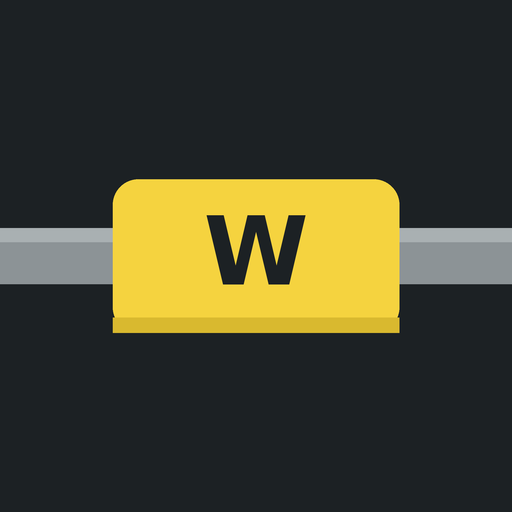
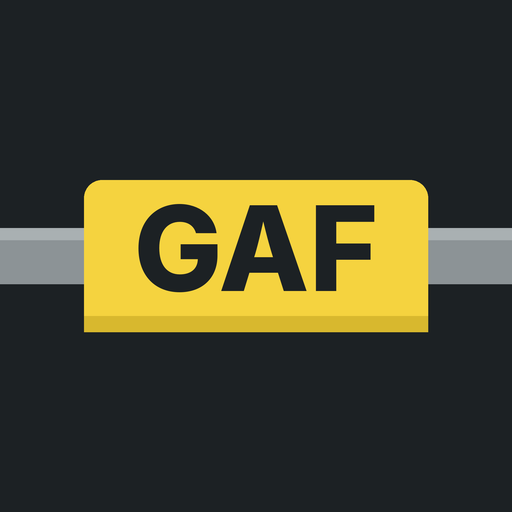
Add files via upload

Changed region(s): [[0.25, 0.375, 0.75, 0.5938], [0.75, 0.3438, 0.8438, 0.6562], [0.1562, 0.3438, 0.25, 0.6562]]

diff --git a/index.html b/index.html
@@ -7,8 +7,8 @@
 <meta name="apple-mobile-web-app-capable" content="yes">
 <meta name="mobile-web-app-capable" content="yes">
 <meta name="apple-mobile-web-app-status-bar-style" content="black-translucent">
-<meta name="apple-mobile-web-app-title" content="Wiring">
-<title>Wiring Library</title>
+<meta name="apple-mobile-web-app-title" content="GAFwire">
+<title>GAFwire</title>
 <link rel="manifest" href="manifest.json">
 <link rel="apple-touch-icon" href="apple-touch-icon.png">
 <link rel="icon" href="icon-192.png">
@@ -290,7 +290,7 @@ function render() {
   if (route().view === 'qr') return renderQr(route().args);   // sticker page needs no library data
   if (needPin) return renderPin();
   if (!catalog) {
-    app.innerHTML = bar(CFG.APP_NAME || 'Wiring Library') + `<main>${loadError
+    app.innerHTML = bar(CFG.APP_NAME || 'GAFwire') + `<main>${loadError
       ? `<div class="empty"><b>Library not loaded</b>${esc(loadError)}<div class="actions"><button class="btn primary" data-act="retry">Retry</button></div></div>`
       : '<p class="foot">Loading the library…</p>'}</main>`;
     return;
@@ -307,7 +307,7 @@ const banner = () => offline ? `<div class="notice">No connection. Showing the s
 function renderHome(resultsOnly) {
   const out = document.getElementById('results');
   if (resultsOnly && out) { out.innerHTML = homeBody(); return; }
-  app.innerHTML = bar(CFG.APP_NAME || 'Wiring Library', false, true) + `<main>${banner()}<div id="results">${homeBody()}</div>
+  app.innerHTML = bar(CFG.APP_NAME || 'GAFwire', false, true) + `<main>${banner()}<div id="results">${homeBody()}</div>
     <div class="help"><button data-act="missing">Can't find your device?</button></div></main>`;
 }
 
@@ -457,7 +457,7 @@ async function renderQr(args) {
 }
 
 function renderPin() {
-  app.innerHTML = bar(CFG.APP_NAME || 'Wiring Library') + `<main><form class="pin" id="pinform"><h2>Enter the shop PIN</h2>
+  app.innerHTML = bar(CFG.APP_NAME || 'GAFwire') + `<main><form class="pin" id="pinform"><h2>Enter the shop PIN</h2>
     <p class="foot" style="margin:0">Ask your lead or QA/QC for it. You only enter it once on this phone.</p>
     <input id="pin" inputmode="numeric" autocomplete="off" aria-label="Shop PIN" autofocus>
     <button class="btn primary block" type="submit">Open the library</button>

diff --git a/sw.js b/sw.js
@@ -1,7 +1,7 @@
 // Keeps the app itself (not the diagrams, the page handles those) available with no signal.
 // Always tries the network first so changes on GitHub show up right away,
 // and falls back to the saved copy when there's no signal.
-const SHELL = 'wl-shell-v3';
+const SHELL = 'wl-shell-v4';
 const FILES = ['./', './index.html', './config.js', './manifest.json', './icon-192.png', './icon-512.png',
   './apple-touch-icon.png', './lib/pdf.min.mjs', './lib/pdf.worker.min.mjs', './lib/qrcode.js'];
 

diff --git a/config.js b/config.js
@@ -5,5 +5,5 @@ window.WL_CONFIG = {
   //   API_URL: 'https://script.google.com/macros/s/AKfy....../exec',
   API_URL: 'https://script.google.com/macros/s/AKfycby0ga_bw_syFKKAP-OlYY-k6Zfhsf4aEtI7uxmqfZ0Zs9CatAcHC9Vg6yJznAYyX3oF/exec',
   // Shown at the top of the app.
-  APP_NAME: 'Wiring Library'
+  APP_NAME: 'GAFwire'
 };
